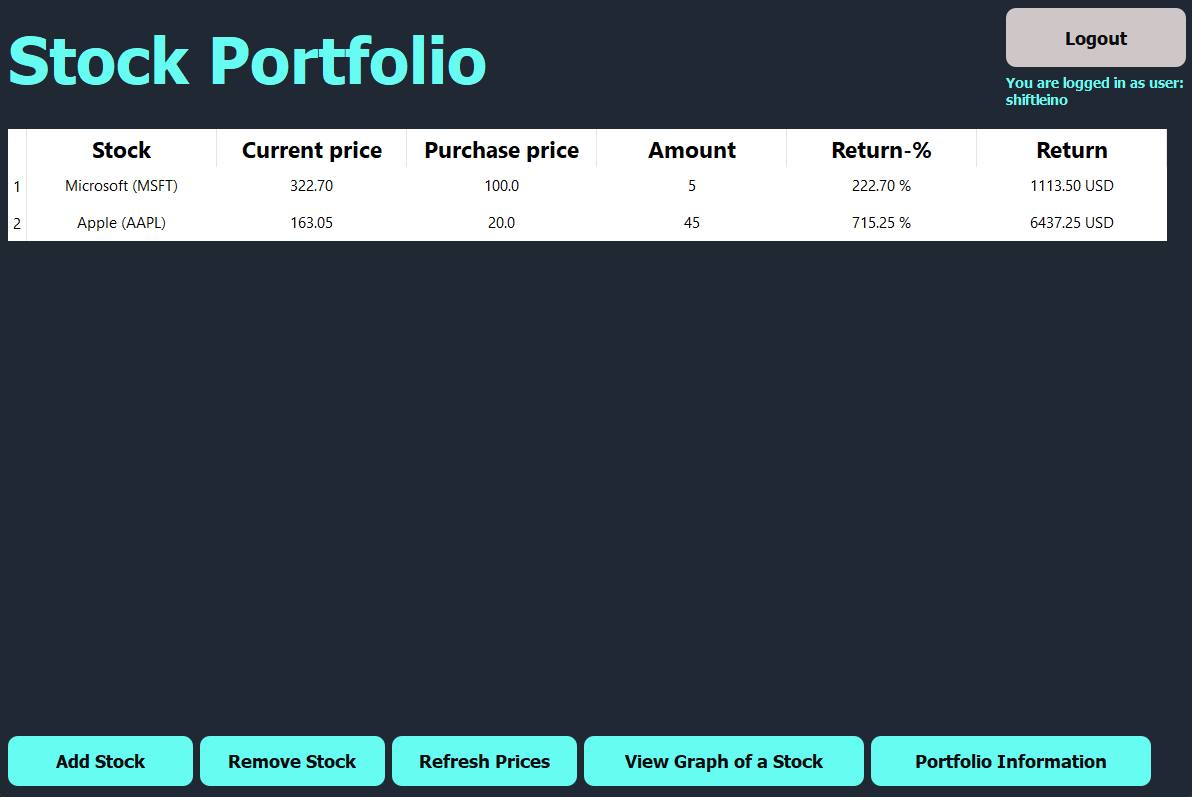
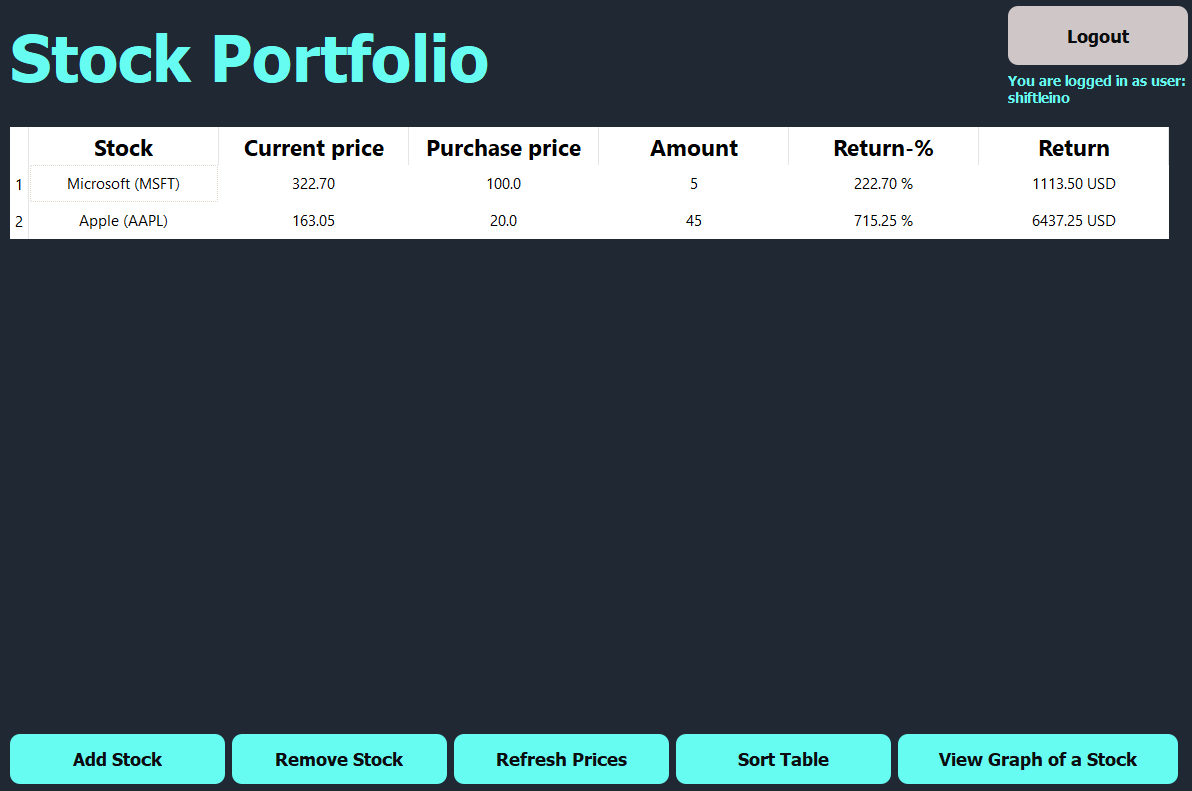
Changed instructions

diff --git a/documentation/instructions.md b/documentation/instructions.md
@@ -2,9 +2,9 @@
 First download the latest release for example as a zip-file from [releases](https://github.com/shiftleino/stockPortfolio/releases).
 
 ## Configuration
-Configuration instructions coming soon...
+To change the name of the database the data is stored, change the value of DB_FILENAME in .env-file.
 
-## Start up
+## Start Up
 Before trying to start the application, you need to download the dependencies using the following command (assuming you have Poetry installed).
 ```console 
 poetry install
@@ -21,7 +21,7 @@ poetry run invoke start
 
 If you don't have Poetry, run the file src/index.py in your console.
 
-## Sign up
+## Sign Up
 You can create a new user by first clicking Sign up in the following window.
 ![First Window](../images/first_win.png)
 
@@ -30,7 +30,7 @@ Then enter your username and password in the following fields and press "Sign up
 
 After this you are being redirected to the login window.
 
-## Log in
+## Log In
 After pressing Log in button in the first window or being redirected from sign up, you can log in to you account from the following window by typing your username and password into the corresponding fields.
 ![Log in](../images/login_win.png)
 
@@ -41,17 +41,17 @@ After logging in to your account, you are redirected to the "main window" shown 
 In this window you can add, remove and see stocks in your portfolio. Each stock is being shown as a row in the table. 
 
 ### Add a Stock
-To add a stock into your portfolio, press "Add Stock" and follow the pop-up windows. Notice that the tickers of the stocks you add must be in the same format as in the website of YAHOO! Finance (as the application uses Yahoo's data).
+To add a stock into your portfolio, press "Add Stock" and follow the pop-up windows. Notice that the tickers of the stocks must be in the same format as in the website of YAHOO! Finance (as the application uses Yahoo's data).
 
 ### Remove a Stock
 To remove a stock from the portfolio, press "Remove a Stock" and enter the ticker of the stock you want to remove.
 
-### Refresh prices
+### Refresh Prices
 To refresh the current prices in the table, use button "Refresh Prices". It is important to notice that the prices are being collected from the web and therefore there is a small lag when refreshing the prices depending how many stocks you have in the table (1-3s per stock).
 
-### Viewing Stock Graph
-You can view each stocks historical graph by pressing "View Graph of a Stock". in the pop-up window enter the ticker of the stock you want to view. This opens up a new window which shows the historical graph. The graph is interactive and therefore you can zoom in/out and move in the graph. Press "Return to Portfolio" to return back to the "main window". 
-![Stock Graph](../images/graph_win.png)
+### Sort the Table
+To start the table press the "Sort Table" -button, which opens up a pop-up window to select on which column you want to sort the table. The sorting will always be done from the lowest value to the highest.
 
-### Portfolio Information
-Coming soon...
+### Viewing Stock Graph
+You can view each stock's historical graph by pressing "View Graph of a Stock". in the pop-up window enter the ticker of the stock you want to view. This opens up a new window which shows the historical graph. The graph is interactive and therefore you can zoom in/out and move in the graph. Press "Return to Portfolio" to return back to the "main window". 
+![Stock Graph](../images/graph_win.png)
